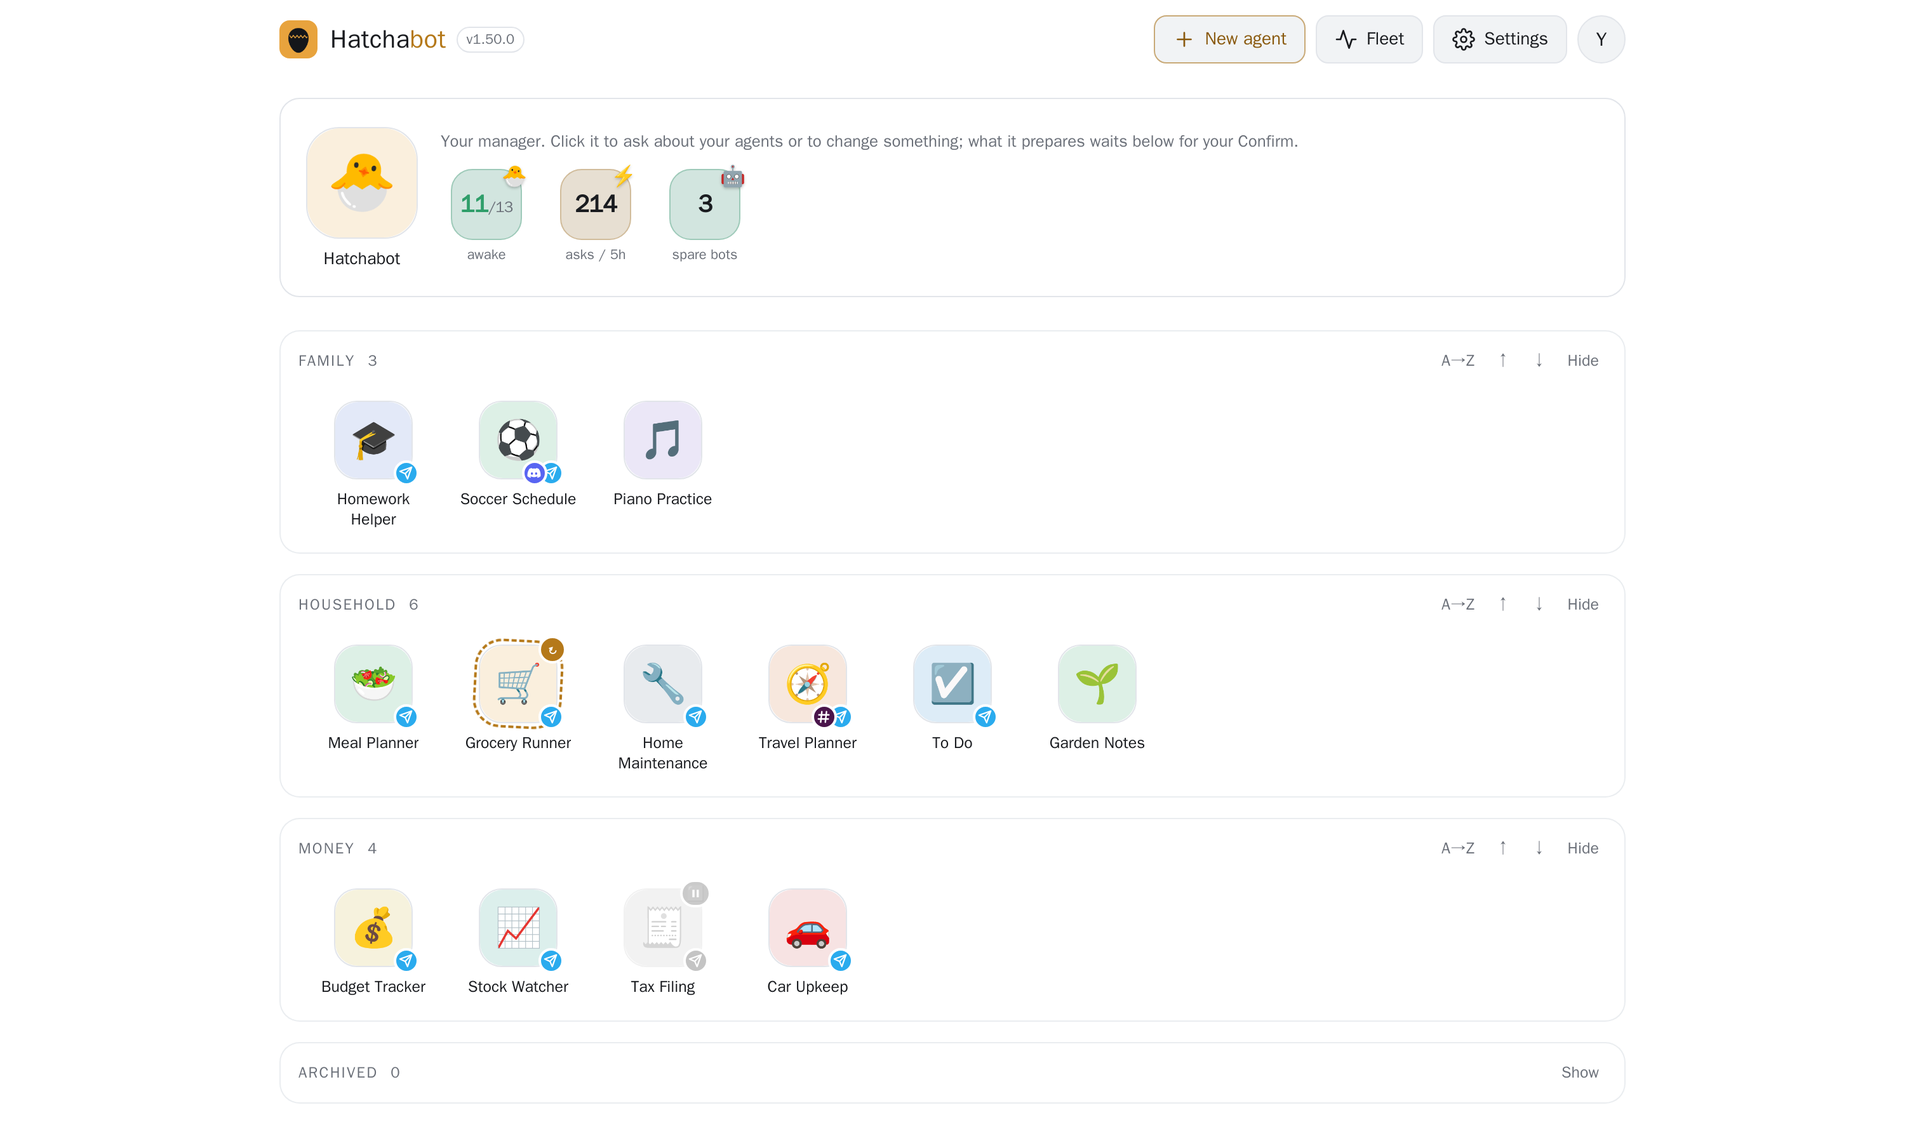
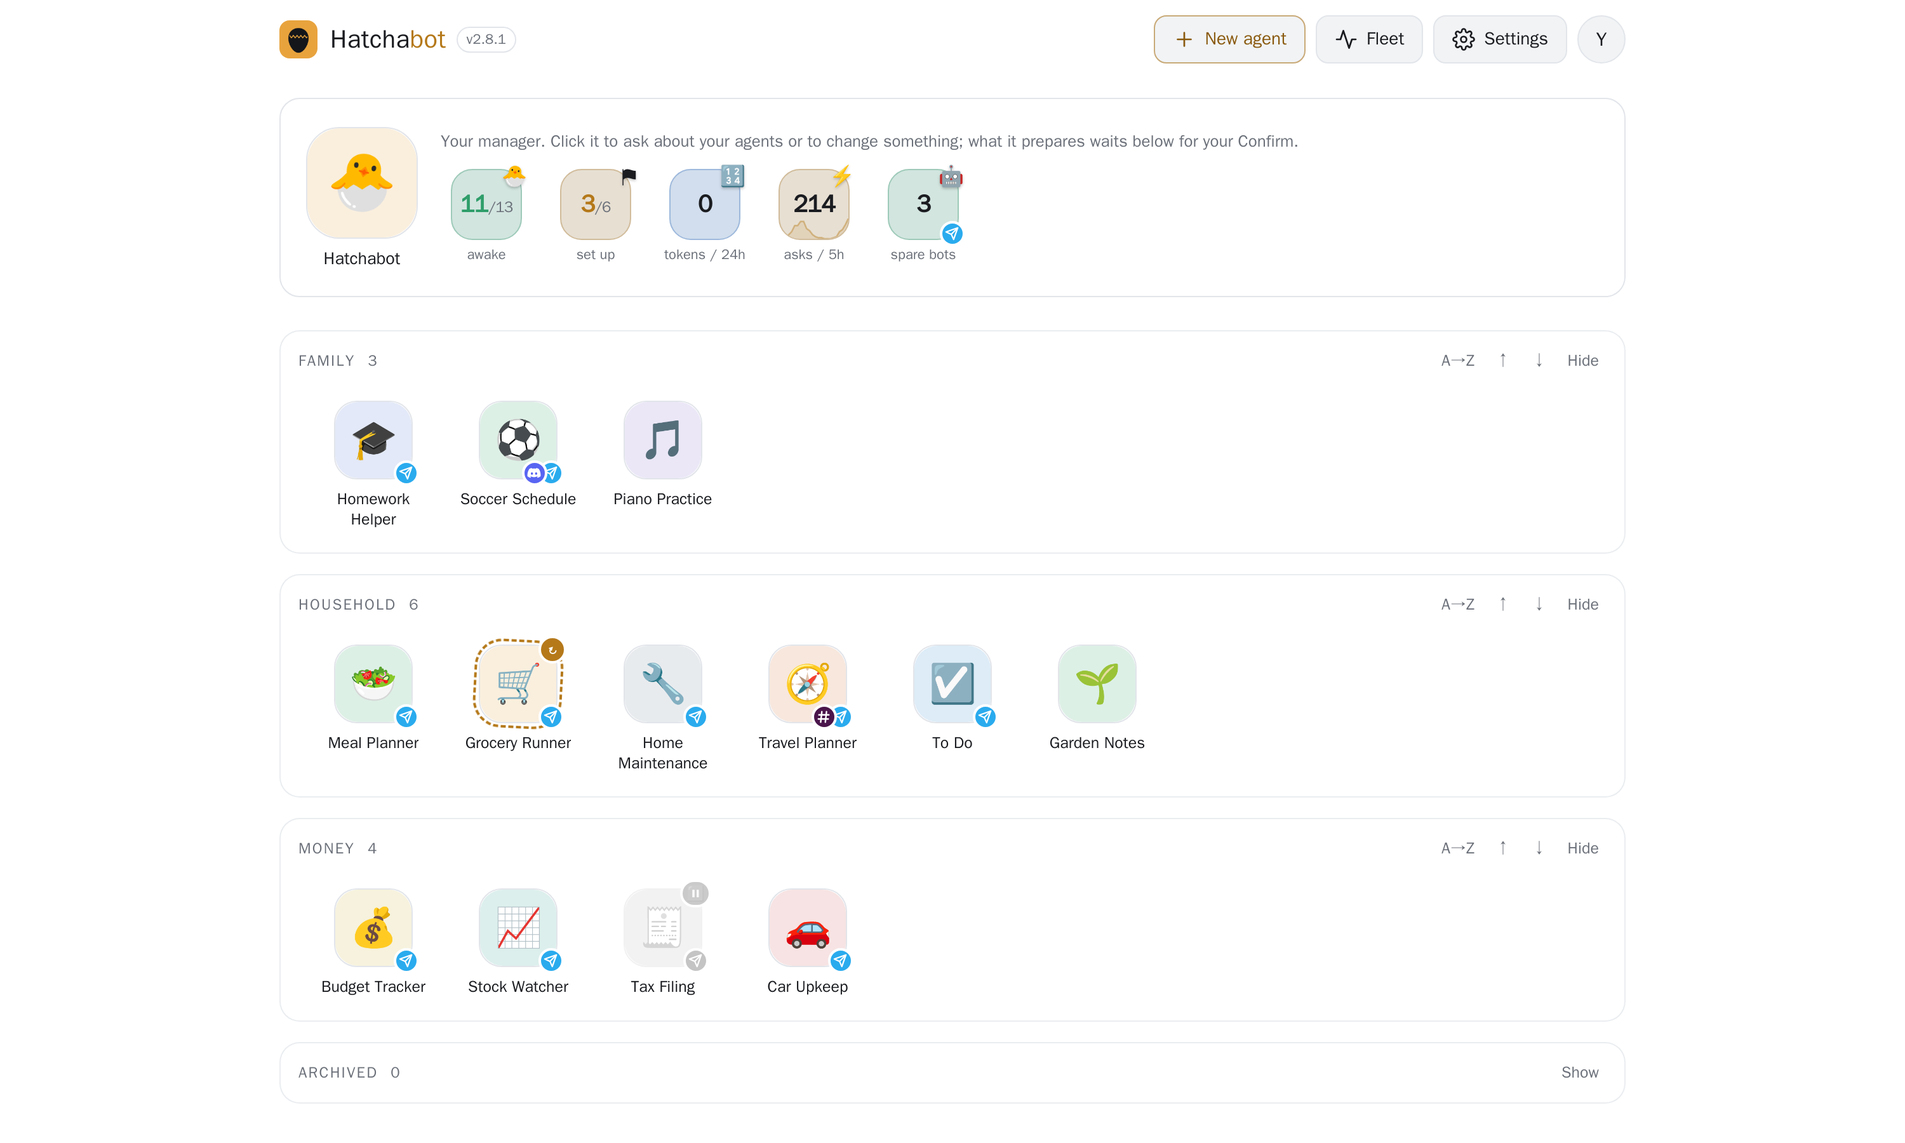
A setup guide you can go back to, and a Telegram badge on spare bots (v2.9.0)
The guide vanished the moment the first agent existed — unnamed, with no
menu entry and no way to reopen it — so people met it once and never knew
what it was. It is now in the account menu, in the classic toolbar, and
behind a "set up" tile on the dashboard that says what is left (3/6).

It also continues past the first agent into the three steps that decide
whether a house is actually set up: the manager's own Telegram bot, an
HTTPS address a phone can open, and a backup that has actually run. Each
step is marked done from live state — a source, a parked bot, a manager
with a bot, an https public URL, a backup set under 48h — never from a
"you have seen this" flag, so reopening it tells the truth.

The spare-bots tile wears the same Telegram badge the agent icons wear.

Claude-Session: https://claude.ai/code/session_01P3fBHKoWro8CpKL4pgECGa

Changed region(s): [[0.372, 0.1244, 0.527, 0.2178], [0.31, 0.1556, 0.341, 0.1867]]

diff --git a/web/index.html b/web/index.html
@@ -736,6 +736,7 @@
         <div class="v2popsep"></div>
         <button role="menuitem" onclick="v2CloseAccount(); openInbox()">Inbox</button>
         <button role="menuitem" onclick="v2CloseAccount(); installApp()">Install as an app</button>
+        <button role="menuitem" onclick="v2CloseAccount(); openSetupGuide()">Setup guide</button>
         <button role="menuitem" onclick="v2CloseAccount(); helpDlg.showModal()">Help</button>
         <button role="menuitem" onclick="location.search = '?ui=classic'">Classic look</button>
         <div class="v2popsep"></div>
@@ -771,6 +772,7 @@
       <button id="fleetBtn" class="hbtn" title="Fleet health — states, activity, backups, and runtime at a glance" onclick="openFleetHealth()">📊 Health</button>
       <button id="fleetUsageBtn" class="hbtn" title="Fleet usage — every running agent ranked by tokens" onclick="openFleetUsage()">📊 Usage</button>
       <button id="fleetSourcesBtn" class="hbtn" title="Which agents are on which AI source, and which models" onclick="openFleetSources()">📊 Sources</button>
+      <button id="setupGuideBtn" class="hbtn" title="The setup checklist — what is done, what is left" onclick="openSetupGuide()">⚑ Setup guide</button>
       <button id="helpBtn" class="hbtn" title="Good to know — key concepts worth remembering" onclick="helpDlg.showModal()">❔ Help</button>
       <button id="tocBtn" class="hbtn" title="Jump to an agent — a clickable table of contents" onclick="toggleToc()" hidden>📑 Jump</button>
       <span class="spacer"></span>
@@ -2645,11 +2647,83 @@ function toast(msg, ms, cls) {
 
 // ---- setup: first-run subscription profile --------------------------------
 
+let setupOpen = false; // the guide is also reachable long after the first agent
+
+/**
+ * The setup checklist, in the order a house actually gets set up: three steps
+ * to the first agent, then the three that decide whether it is any use on a
+ * Tuesday — a manager you can reach from your phone, an address that works
+ * away from home, and a backup that has actually run.
+ *
+ * Every step is marked done from live state, never from a "you have seen
+ * this" flag, so the guide can be reopened any time and still tell the truth.
+ * It used to disappear for good the moment one agent existed, unnamed and
+ * with no way back, which is why nobody knew it was there.
+ */
+function setupSteps() {
+  const mine = (agents ?? []).filter(a => v2Mine(a) && !a.ops && a.state !== 'ARCHIVED');
+  const ops = (agents ?? []).find(a => a.ops && v2Mine(a) && a.state !== 'ARCHIVED');
+  const aiDone = profiles.length > 0, botDone = poolAvail > 0 || mine.some(a => a.botUsername);
+  const steps = [
+    { key: 'ai', done: aiDone, title: aiDone ? `AI connected: ${esc(profiles[0].name)}` : 'Connect the AI', body: `
+      <p class="sub" style="margin:4px 0 6px">A Claude subscription (Pro or Max) powers every agent. On the machine running Hatchabot, run
+        <code>npm i -g @anthropic-ai/claude-code</code>, then <code>claude</code> once to log in, then <code>claude setup-token</code> and paste the token here.
+        Logged into Claude on this very machine (Linux)? Leave the token blank — it's one tap.</p>
+      <label>Model</label>
+      <select id="setupModel" style="width:auto">
+        <option value="claude-opus-4-8">Claude Opus 4.8 (best)</option>
+        <option value="claude-sonnet-5">Claude Sonnet 5 (faster)</option>
+      </select>
+      <label>Setup token</label>
+      <input type="password" id="setupToken" placeholder="paste the token printed by: claude setup-token   (blank = use this machine's Claude login)" autocomplete="off">
+      <div class="err" id="setupErr"></div>
+      <div class="actions" style="justify-content:space-between;align-items:center">
+        <span class="sub">Using an API key or a local model instead? <a href="#" onclick="event.preventDefault();openAiDlg('ai')">⚙ AI sources</a></span>
+        <button class="primary" onclick="createSubscriptionProfile()">Use my Claude subscription</button>
+      </div>` },
+    { key: 'bot', done: botDone, title: botDone ? (poolAvail ? `Telegram bot ready (${poolAvail} parked)` : 'Telegram bot in use') : 'Make your first Telegram bot', body: `
+      <p class="sub" style="margin:4px 0 6px">Each agent is a Telegram bot. In Telegram open <a href="https://t.me/BotFather" target="_blank" rel="noopener"><b>@BotFather</b></a>,
+        send <code>/newbot</code>, give it a display name (e.g. <i>Kitchen Helper</i>) and a username ending in <code>bot</code>. BotFather replies with a token like
+        <code>123456789:AAH…</code> — paste it here. ${myAccount.hostOwner ? 'It is checked with Telegram and parked, so the next step grabs it instantly.' : 'You will paste it when creating the agent in step 3.'}</p>
+      ${myAccount.hostOwner ? `<div style="display:flex;gap:8px;flex-wrap:wrap"><input type="password" id="wizBotToken" placeholder="bot token from @BotFather" autocomplete="off" style="flex:1;min-width:220px"><button class="primary" id="wizBotBtn" onclick="wizardAddBot()">Check &amp; park it</button></div><div class="err" id="wizBotErr"></div>` : ''}` },
+    { key: 'agent', done: mine.length > 0, title: mine.length ? `${mine.length} agent${mine.length === 1 ? '' : 's'}` : 'Create the agent', body: `
+      <p class="sub" style="margin:4px 0 6px">A name and one paragraph about its job — that becomes its personality, which you can edit any time.
+        Then open the Telegram link on its card and say hi; your first message claims it as yours.</p>
+      <div class="actions" style="justify-content:flex-start"><button class="primary" ${aiDone ? '' : 'disabled title="Connect the AI first"'} onclick="$('fabBtn').click()">➕ Create my first agent</button></div>` },
+  ];
+  if (!myAccount.hostOwner) return steps;
+  const httpsDone = /^https:/i.test(appConfig?.appUrl ?? '');
+  steps.push(
+    { key: 'ops', done: !!ops?.botUsername, title: ops?.botUsername ? `Your manager answers on @${esc(ops.botUsername)}` : 'Give your Hatchabot agent a Telegram bot', body: `
+      <p class="sub" style="margin:4px 0 6px">The Hatchabot agent is the one you ask for changes — "make me an agent that watches the bins", "why is the kitchen one quiet?".
+        Give it its own bot and you can ask from anywhere; Hatchabot pushes what needs you (someone knocking, a change waiting) down the same channel.
+        Confirming still happens here, in the app.</p>
+      ${ops ? `<div class="actions" style="justify-content:flex-start"><button class="primary" onclick="openV2Agent('${jsq(ops.id)}','messaging')">Open its Telegram tab</button></div>`
+            : `<p class="sub" style="margin:0"><b>It doesn't exist yet</b> — the offer to create it is on the home screen, beside the fleet.</p>`}` },
+    { key: 'https', done: httpsDone, title: httpsDone ? `Reachable at ${esc((appConfig?.appUrl ?? '').replace(/^https:\/\//, ''))}` : 'Reach it from your phone, over HTTPS', body: `
+      <p class="sub" style="margin:4px 0 6px">On <code>http://localhost:8080</code> the app only works on this machine, and the agent consoles need a secure page.
+        One command on the host puts a real certificate in front of it and gives it an address your other devices can open:</p>
+      <p style="margin:4px 0 6px"><code>tailscale serve --bg http://localhost:8080</code></p>
+      <p class="sub" style="margin:0">Then set <code>HATCHABOT_PUBLIC_URL</code> to that <code>https://…ts.net</code> address and restart. Details in <code>docs/tailscale.md</code>.</p>` },
+    { key: 'backup', done: backupAgeH !== null && backupAgeH < 48, title: backupAgeH !== null && backupAgeH < 48 ? 'Backups are running' : 'Check a backup has actually run', body: `
+      <p class="sub" style="margin:4px 0 6px">Agents keep everything on a volume — memory, files, members. A nightly backup set is what stands between that and a bad day,
+        and a backup nobody has looked at is not a backup. ${backupAgeH === null ? 'Nothing has been backed up yet.' : `The newest set is ${Math.round(backupAgeH / 24)} days old.`}</p>
+      <div class="actions" style="justify-content:flex-start"><button class="primary" onclick="openAiDlg('backups')">Open Backups</button></div>` },
+  );
+  return steps;
+}
+
+/** Open the guide deliberately — from the account menu, the header, or the
+ *  Setup tile on the dashboard. */
+function openSetupGuide() {
+  setupOpen = true;
+  renderSetup();
+  $('setup').scrollIntoView({ behavior: 'smooth', block: 'start' });
+}
+function closeSetupGuide() { setupOpen = false; renderSetup(); }
+
 function renderSetup() {
   const el = $('setup');
-  // First-run wizard: shown until the first agent exists. Three steps, each
-  // marked done from real state (an AI source, a parked bot, an agent).
-  if (agents.length > 0) { el.innerHTML = ''; $('fabBtn').hidden = false; return; }
   // An invited member with nothing shared to them used to land on the OWNER's
   // wizard, which tells them to run `claude setup-token` on a machine they
   // have no access to. Say what is actually true for them instead.
@@ -2663,41 +2737,26 @@ function renderSetup() {
     </div>`;
     return;
   }
-  const aiDone = profiles.length > 0, botDone = poolAvail > 0;
+  const steps = setupSteps();
+  const aiDone = steps[0].done, firstAgent = steps[2].done;
   $('fabBtn').hidden = !aiDone;
-  const step = (n, done, title, body) => `
-    <div style="display:flex;gap:12px;align-items:flex-start;padding:10px 0;border-top:1px solid var(--line)${done ? ';opacity:.6' : ''}">
-      <span style="flex:none;width:26px;height:26px;border-radius:50%;background:${done ? 'var(--ok)' : 'var(--accent)'};color:var(--accent-ink);font-weight:800;display:flex;align-items:center;justify-content:center">${done ? '✓' : n}</span>
-      <div class="grow"><div class="name" style="font-size:15px">${title}</div>${done ? '' : body}</div>
+  // Until the first agent exists the guide shows itself; after that it is
+  // opened on purpose, and says so in its heading.
+  if (firstAgent && !setupOpen) { el.innerHTML = ''; return; }
+  const done = steps.filter(s => s.done).length;
+  const step = (n, s) => `
+    <div style="display:flex;gap:12px;align-items:flex-start;padding:10px 0;border-top:1px solid var(--line)${s.done ? ';opacity:.6' : ''}">
+      <span style="flex:none;width:26px;height:26px;border-radius:50%;background:${s.done ? 'var(--ok)' : 'var(--accent)'};color:var(--accent-ink);font-weight:800;display:flex;align-items:center;justify-content:center">${s.done ? '✓' : n}</span>
+      <div class="grow"><div class="name" style="font-size:15px">${s.title}</div>${s.done ? '' : s.body}</div>
     </div>`;
   el.innerHTML = `
-    <div class="card">
-      <div class="name">Welcome 👋 — three steps to your first agent</div>
-      ${step(1, aiDone, aiDone ? `AI connected: ${esc(profiles[0].name)}` : 'Connect the AI', `
-        <p class="sub" style="margin:4px 0 6px">A Claude subscription (Pro or Max) powers every agent. On the machine running Hatchabot, run
-          <code>npm i -g @anthropic-ai/claude-code</code>, then <code>claude</code> once to log in, then <code>claude setup-token</code> and paste the token here.
-          Logged into Claude on this very machine (Linux)? Leave the token blank — it's one tap.</p>
-        <label>Model</label>
-        <select id="setupModel" style="width:auto">
-          <option value="claude-opus-4-8">Claude Opus 4.8 (best)</option>
-          <option value="claude-sonnet-5">Claude Sonnet 5 (faster)</option>
-        </select>
-        <label>Setup token</label>
-        <input type="password" id="setupToken" placeholder="paste the token printed by: claude setup-token   (blank = use this machine's Claude login)" autocomplete="off">
-        <div class="err" id="setupErr"></div>
-        <div class="actions" style="justify-content:space-between;align-items:center">
-          <span class="sub">Using an API key or a local model instead? <a href="#" onclick="event.preventDefault();openAiDlg('ai')">⚙ AI sources</a></span>
-          <button class="primary" onclick="createSubscriptionProfile()">Use my Claude subscription</button>
-        </div>`)}
-      ${step(2, botDone, botDone ? `Telegram bot ready (${poolAvail} parked)` : 'Make your first Telegram bot', `
-        <p class="sub" style="margin:4px 0 6px">Each agent is a Telegram bot. In Telegram open <a href="https://t.me/BotFather" target="_blank" rel="noopener"><b>@BotFather</b></a>,
-          send <code>/newbot</code>, give it a display name (e.g. <i>Kitchen Helper</i>) and a username ending in <code>bot</code>. BotFather replies with a token like
-          <code>123456789:AAH…</code> — paste it here. ${myAccount.hostOwner ? 'It is checked with Telegram and parked, so the next step grabs it instantly.' : 'You will paste it when creating the agent in step 3.'}</p>
-        ${myAccount.hostOwner ? `<div style="display:flex;gap:8px;flex-wrap:wrap"><input type="password" id="wizBotToken" placeholder="bot token from @BotFather" autocomplete="off" style="flex:1;min-width:220px"><button class="primary" id="wizBotBtn" onclick="wizardAddBot()">Check &amp; park it</button></div><div class="err" id="wizBotErr"></div>` : ''}`)}
-      ${step(3, false, 'Create the agent', `
-        <p class="sub" style="margin:4px 0 6px">A name and one paragraph about its job — that becomes its personality, which you can edit any time.
-          Then open the Telegram link on its card and say hi; your first message claims it as yours.</p>
-        <div class="actions" style="justify-content:flex-start"><button class="primary" ${aiDone ? '' : 'disabled title="Connect the AI first"'} onclick="$('fabBtn').click()">➕ Create my first agent</button></div>`)}
+    <div class="card" id="setupCard">
+      <div class="row">
+        <div class="name grow">${firstAgent ? `Setup guide — ${done} of ${steps.length} done` : 'Welcome 👋 — three steps to your first agent'}</div>
+        ${firstAgent ? '<button onclick="closeSetupGuide()" title="Close the guide — it stays in your account menu">✕ Close</button>' : ''}
+      </div>
+      ${firstAgent && done === steps.length ? '<p class="sub" style="margin:6px 0 0">Everything on the list is done. It stays here so you can check again after a change.</p>' : ''}
+      ${steps.map((s, i) => step(i + 1, s)).join('')}
     </div>`;
 }
 
@@ -9868,9 +9927,17 @@ function renderV2Stats() {
   const usage = (sourceUsageData?.sources ?? []).reduce((n, s) => n + (s.window5h?.requests ?? 0), 0);
   const tokens24h = (sourceUsageData?.sources ?? []).reduce((n, s) => n + (s.window24h?.tokens ?? 0), 0);
   const limited = (sourceUsageData?.sources ?? []).some(s => s.status === 'limited');
+  // The setup guide no longer vanishes after the first agent; while anything
+  // on it is undone, the dashboard says so and opens it.
+  const setup = setupSteps();
+  const setupDone = setup.filter(x => x.done).length, setupTotal = setup.length;
+  const setupLeft = setupTotal - setupDone;
   const tiles = [
     { key: 'awake', emoji: '🐣', tone: 'var(--ok)', num: `${awake}<small>/${mine.length}</small>`,
       lab: 'awake', hot: awake < mine.length, go: () => openFleetHealth(), title: `${awake} of ${mine.length} agents running` },
+    setupLeft ? { key: 'setup', emoji: '⚑', tone: 'var(--accent)', num: `${setupDone}<small>/${setupTotal}</small>`,
+      lab: 'set up', hot: true, go: () => openSetupGuide(),
+      title: `Setup guide — ${setupLeft} step${setupLeft === 1 ? '' : 's'} left` } : null,
     unread ? { key: 'unread', emoji: '💬', tone: 'var(--info)', num: unread, lab: unread === 1 ? 'to read' : 'to read', hot: true,
       go: () => { const a = mine.find(v2Unread); if (a) v2Open(a.id); }, title: 'Agents with something new in their console' } : null,
     v2PendingCount ? { key: 'confirm', emoji: '✅', tone: 'var(--accent)', num: v2PendingCount, lab: 'to confirm', hot: true,
@@ -9889,6 +9956,9 @@ function renderV2Stats() {
       lab: 'last backup', hot: backupAgeH > 36, go: () => openAiDlg('backups'),
       title: backupAgeH > 36 ? 'The nightly backup has not run — open Backups' : 'Age of the newest backup set' } : null,
     { key: 'bots', emoji: '🤖', tone: poolAvail ? 'var(--ok)' : 'var(--off)', num: poolAvail, lab: 'spare bots', hot: false,
+      // The same Telegram badge the agent icons wear, so "spare" reads as
+      // "spare Telegram bots" without spelling it out under a 72px tile.
+      art: `<span class="v2tg v2mk-telegram" aria-hidden="true">${V2_MARK_SVG.telegram}</span>`,
       go: () => openAiDlg('pool'), title: 'Telegram bots parked and ready for a new agent' },
   ].filter(Boolean).slice(0, 8);
   const html = tiles.map(t => `<button class="v2stat${t.hot ? ' hot' : ''}" style="--tone:${t.tone}" title="${esc(t.title)}" data-stat="${t.key}">

diff --git a/docs/features.md b/docs/features.md
@@ -46,10 +46,20 @@ The header holds:
 - **The manager's dashboard.** Beside the Hatchabot agent, the fleet in tiles
   drawn like the agent icons: **awake** (11/13), **asks / 5h** (with a
   sparkline of the last hours), **tokens / 24h**, **last backup** (amber past
-  36h), **spare bots**, and — only when they are not zero — **to read**, **to
+  36h), **spare bots** (wearing the same Telegram badge the agent icons do, so it
+  reads as spare *Telegram* bots), and — only when they are not zero — **to read**, **to
   confirm**, **knocking** and **to rebuild**, which take priority when the row
   runs out of room. Each tile opens the screen that acts on it. On a phone the
   four most urgent stay.
+- **The setup guide doesn't disappear.** Until the first agent exists it shows
+  itself — connect the AI, make a Telegram bot, create the agent. After that it
+  keeps going with the three steps that decide whether the house is actually
+  set up: give the **Hatchabot agent its own Telegram bot**, put the app on an
+  **HTTPS address** your phone can reach, and **check a backup has run**. Every
+  step is ticked from live state, never from "you have seen this", so it is
+  still honest a month later. A **set up** tile on the dashboard shows what is
+  left (`3/6`) and opens it; it is also in the account menu under **Setup
+  guide**, and in the classic look's toolbar.
 - **Waiting for you** collects what needs you: changes your manager prepared
   (Confirm / Cancel), the ones that were confirmed and then *failed*, with the
   reason, and **people knocking** — a join request with **Let them in**,

diff --git a/CHANGELOG.md b/CHANGELOG.md
@@ -2,6 +2,15 @@
 
 All notable changes to Hatchabot are recorded here. Dates are ISO (YYYY-MM-DD).
 
+## [2.9.0] — 2026-09-20
+
+### Added
+- **The setup guide is a place you can go back to.** It used to vanish the moment your first agent existed — unnamed, unmentioned, with no way to reopen it — so most people met it once and never knew what it was. It is now reachable for good: **Setup guide** in the account menu (the toolbar in the classic look), and a **set up** tile on the dashboard showing what is left (`3/6`) that opens it.
+- **Three steps past the first agent.** The list continues into what actually decides whether a house is set up: give the **Hatchabot agent its own Telegram bot** so you can ask for changes from anywhere, put the app behind an **HTTPS address** your phone can open (`tailscale serve`), and **check a backup has actually run**. Every step is still marked done from live state — an AI source, a parked bot, a manager with a bot, an `https://` public URL, a backup set under 48 hours old — never from a "you have seen this" flag, so reopening it tells the truth rather than a memory.
+
+### Changed
+- **The spare-bots tile wears a Telegram badge**, the same one the agent icons wear, so "spare bots" reads as spare *Telegram* bots without spelling it out under a 72px tile.
+
 ## [2.8.1] — 2026-09-20
 
 ### Changed
